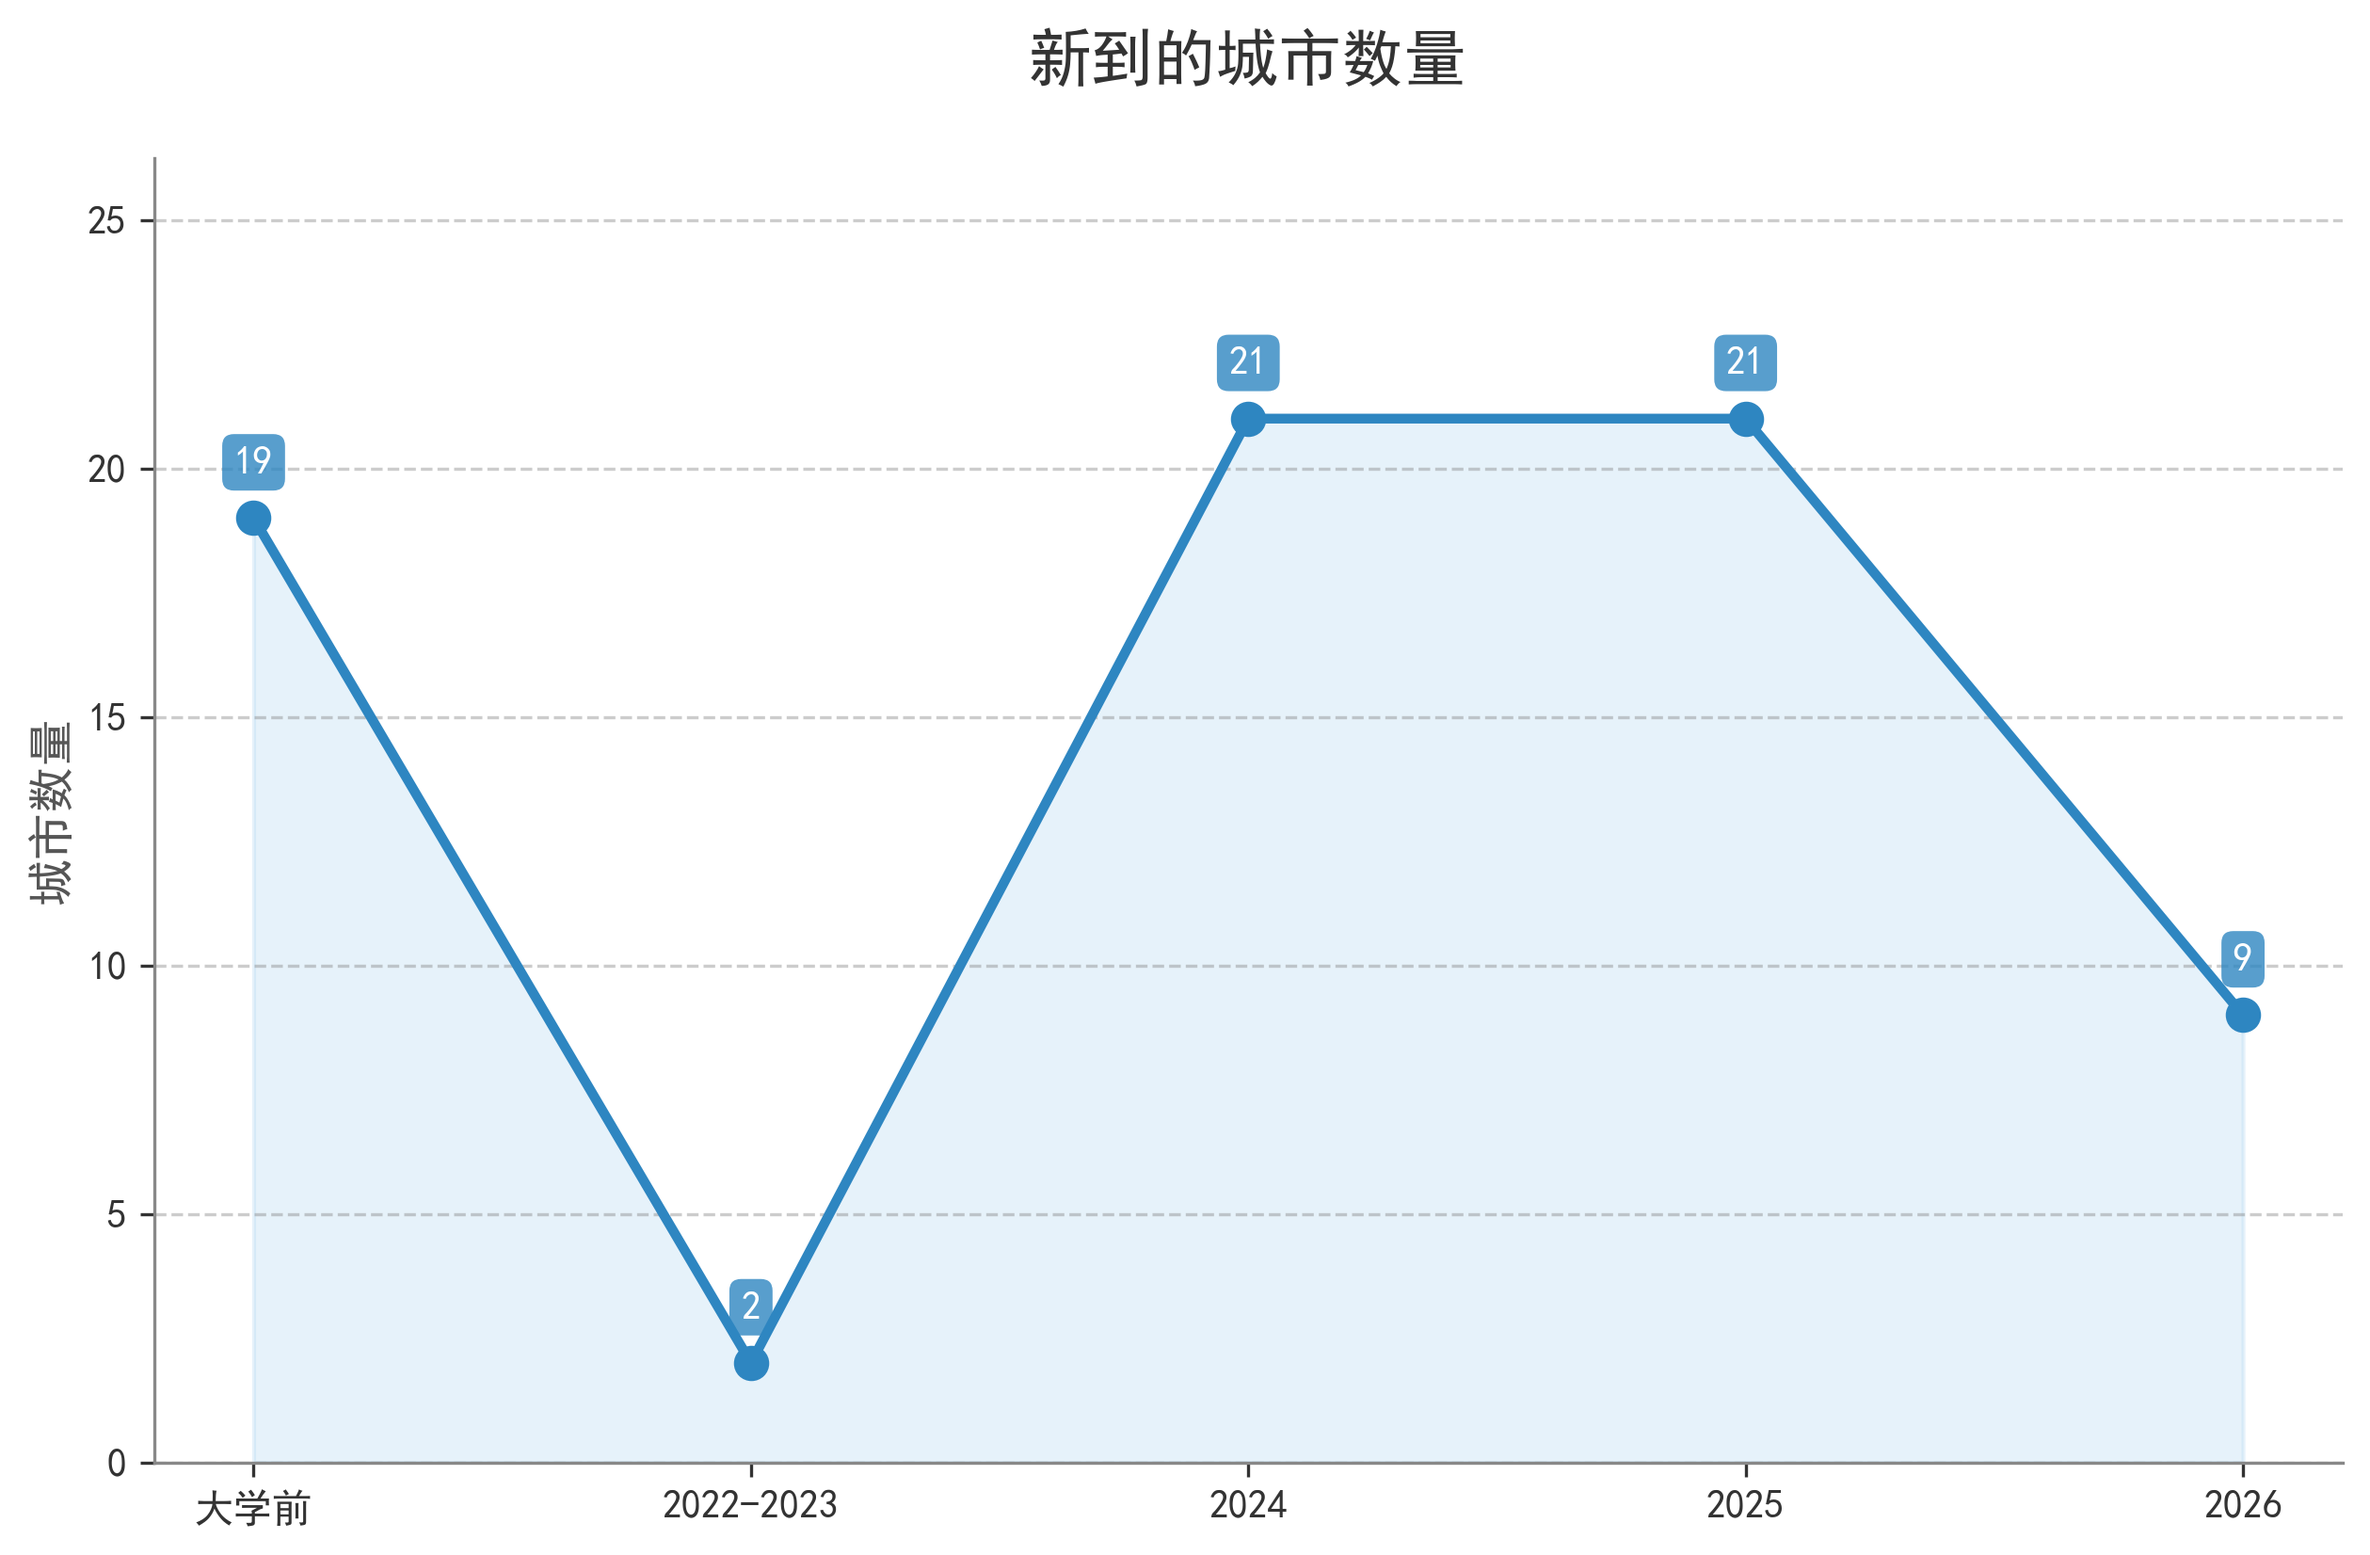
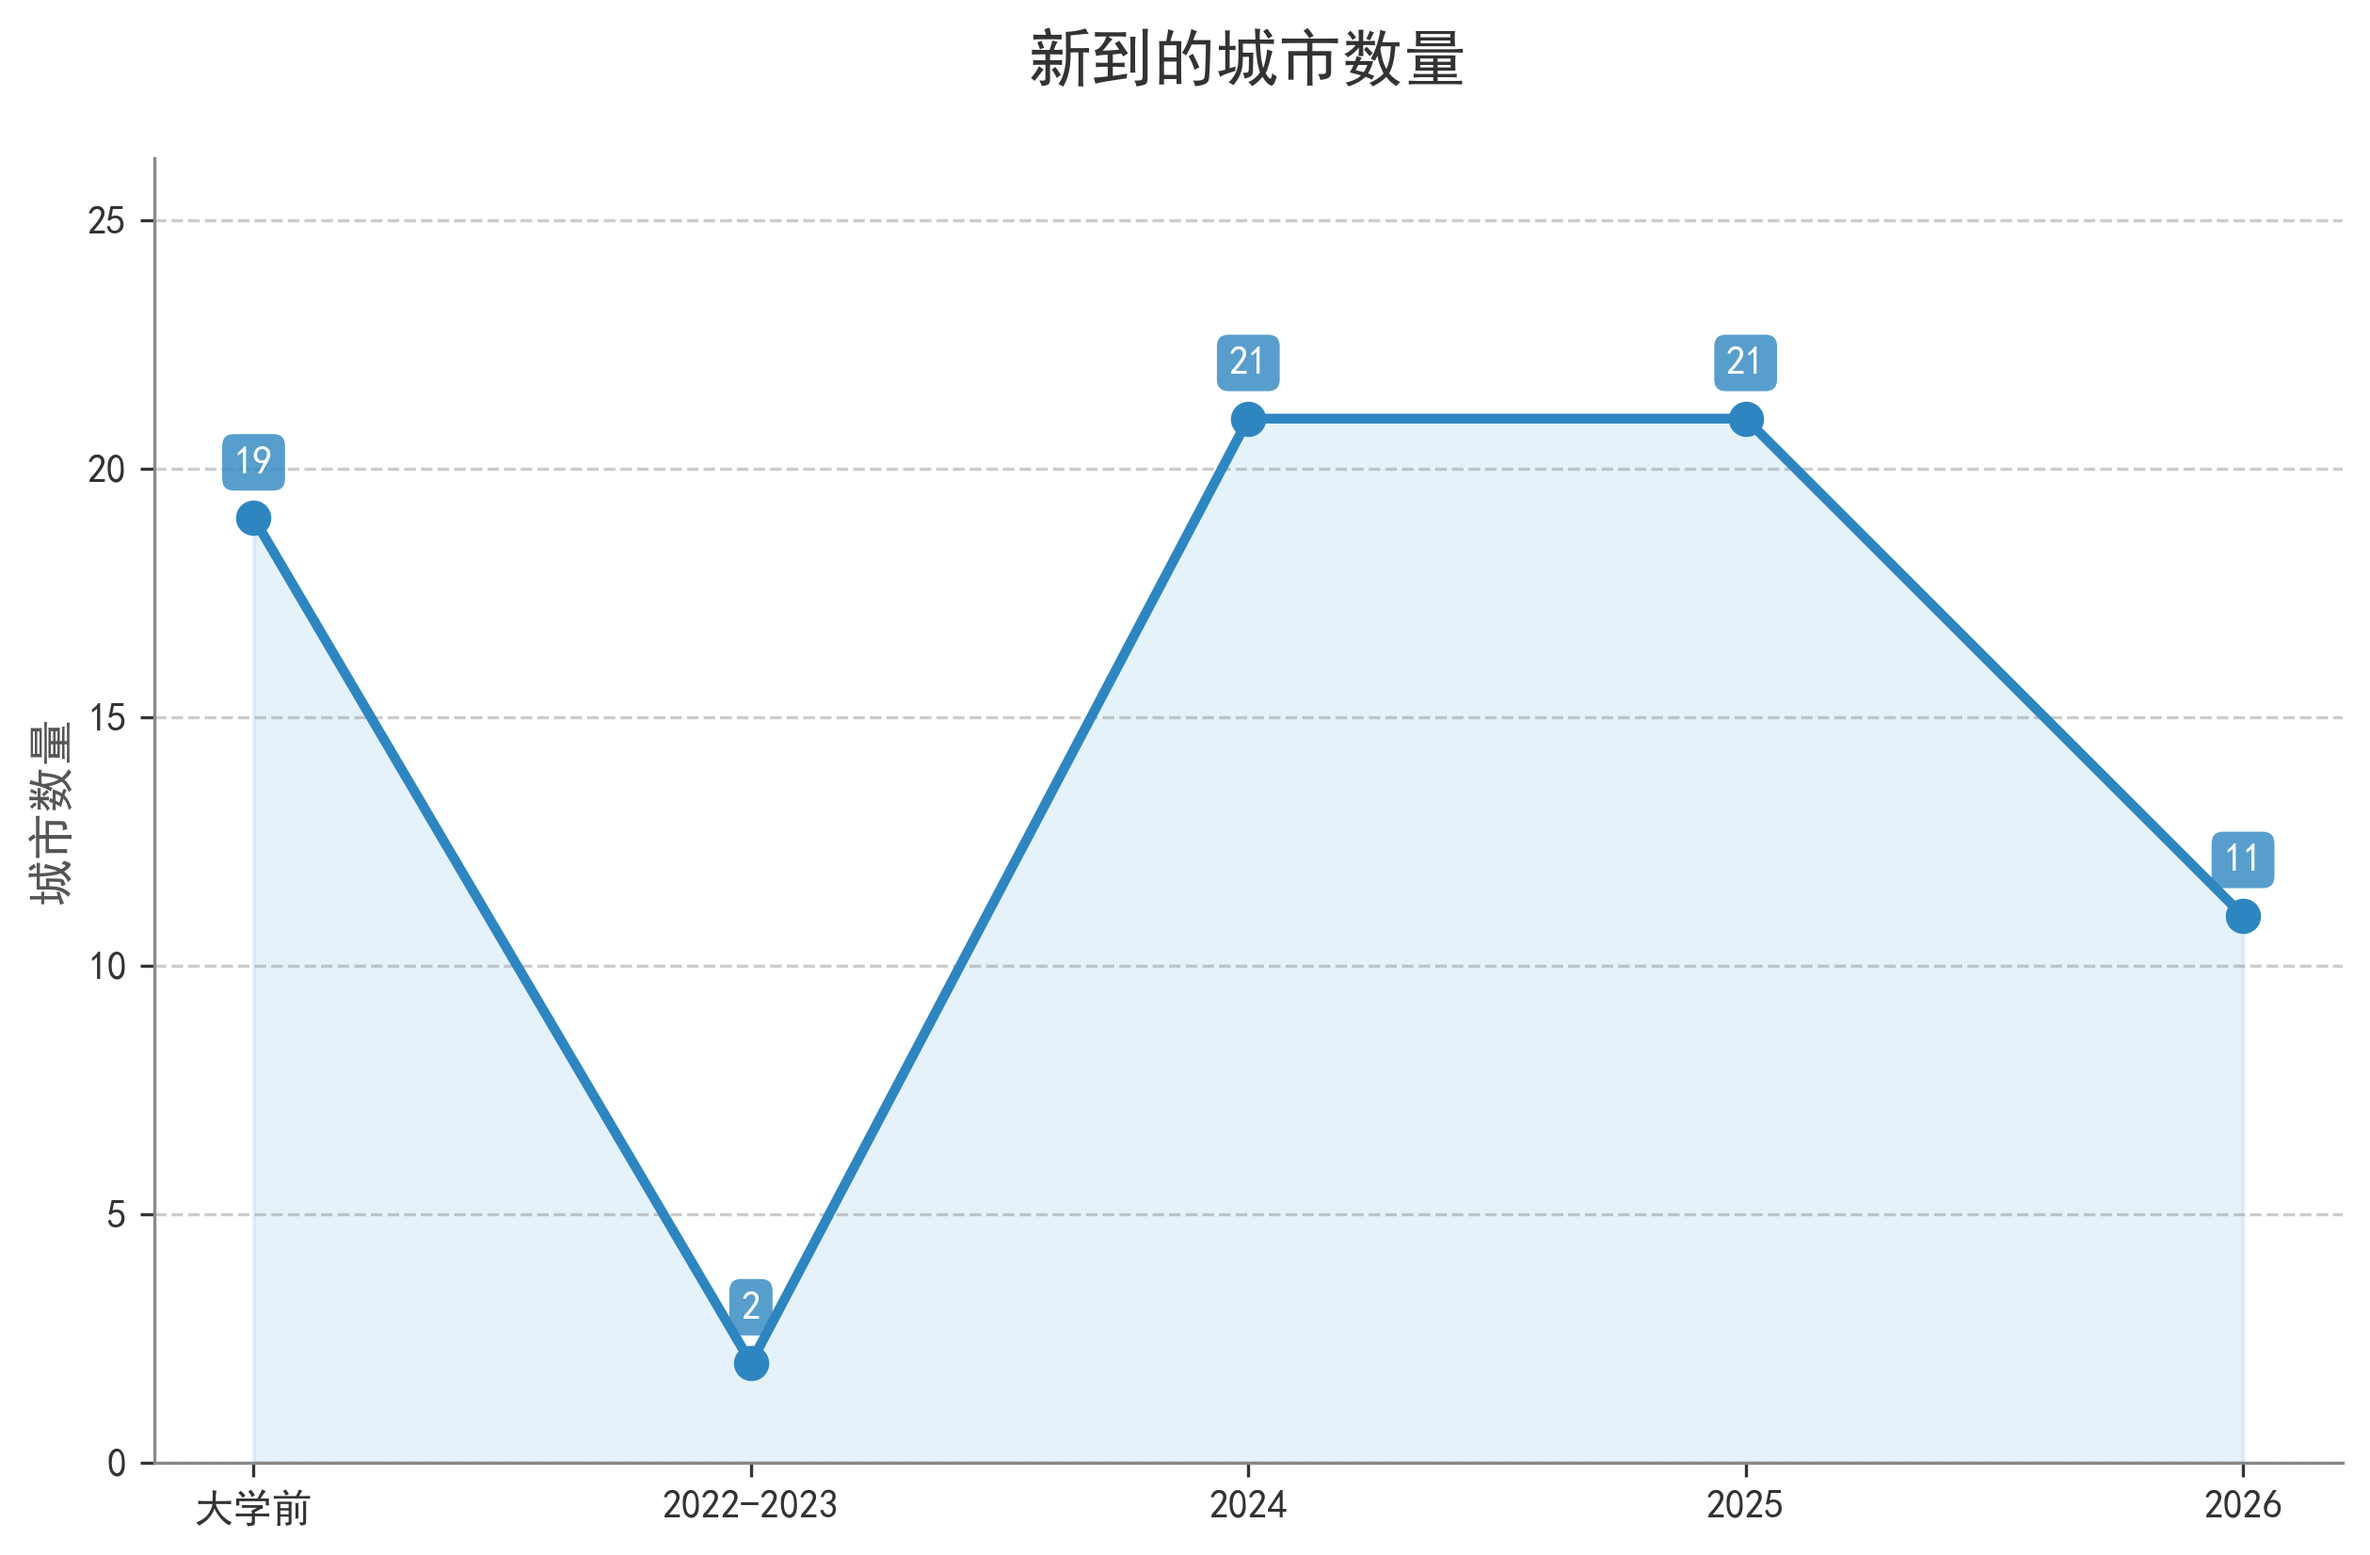
commit

Changed region(s): [[0.7434, 0.2778, 0.9603, 0.6792]]

diff --git a/draw.py b/draw.py
@@ -37,8 +37,8 @@ def add_labels(ax, x, y, color):
 
 # ----------------- 数据部分 -----------------
 years = ["大学前", "2022-2023", "2024", "2025", "2026"]
-new_cities = [19, 2, 21, 21, 9]  
-cumulative_cities = [19, 21, 42, 63, 72] 
+new_cities = [19, 2, 21, 21, 11]  
+cumulative_cities = [19, 21, 42, 63, 74] 
 
 # ----------------- 绘图1: 新到的城市 -----------------
 plt.figure(figsize=(10, 6))

diff --git a/source/_posts/行旅杂记.md b/source/_posts/行旅杂记.md
@@ -129,7 +129,7 @@ date: 2024-11-15 00:00:00
 
 2月26日开始返京，先到深圳停留一天，28日从深圳到合肥，3月1日从合肥到北京[^21]。
 
-至此，共计去过20个省级行政区，72个城市[^20]：
+至此，共计去过21个省级行政区，74个城市[^20]：
 - 省
   - 广东（15/21）：湛江、广州、茂名、东莞、河源、惠州、阳江、江门、佛山、中山、珠海、韶关、揭阳、潮州、深圳
   - 贵州（5/9）：贵阳、黔南、黔东南、安顺、铜仁
@@ -146,16 +146,17 @@ date: 2024-11-15 00:00:00
   - 福建（2/9）：福州、龙岩
   - 河北（2/11）：承德、保定、秦皇岛
   - 辽宁（1/14）：葫芦岛
-  - 甘肃（1/14）：嘉峪关
+  - 甘肃（2/14）：嘉峪关、酒泉
 - 直辖市
   - 北京、上海、天津
 - 自治区
   - 广西（6/14）：北海、桂林、柳州、来宾、贵港、玉林
+  - 内蒙古（1/12）：阿拉善
 
-<figure style="text-align: center;"> <img src="https://s3.bmp.ovh/2026/02/11/ImIgPu8K.jpg" alt="旅行足迹" style="display: block; margin-left: auto; margin-right: auto;width: 80%;"></figure>
+<figure style="text-align: center;"> <img src="https://s3.bmp.ovh/2026/04/17/2HK5Runq.jpg" alt="旅行足迹" style="display: block; margin-left: auto; margin-right: auto;width: 80%;"></figure>
 
 <div style="text-align: center; font-size: 0;">
-  <img src="https://s3.bmp.ovh/2026/02/11/3gl1Jjx4.png" alt="新到的城市数量" style="width: 49%; display: inline-block;"><img src="https://s3.bmp.ovh/2026/02/11/JAj4CoCd.png" alt="累计去过的城市数量" style="width: 49%; display: inline-block;">
+  <img src="https://s3.bmp.ovh/2026/04/17/DfhIyGJG.png" alt="新到的城市数量" style="width: 49%; display: inline-block;"><img src="https://s3.bmp.ovh/2026/04/17/DTuQdKmn.png" alt="累计去过的城市数量" style="width: 49%; display: inline-block;">
 </div>
 
 铁路记录如下[^18]：

diff --git a/source/_posts/武汉岳阳行记.md b/source/_posts/武汉岳阳行记.md
@@ -37,11 +37,12 @@ date: 2024-03-03 00:00:00
 
 ## 1月20日
 
-五点半起床，漫天飞雪，到武汉站赴岳阳东站，“洞庭天下水，岳阳天下楼”，来岳阳自然是为了登岳阳楼（详见[《冬日访岳阳楼》](../1fb2/)），中午吃洞庭鱼煲后回广州，在车上看了《何以为家》。好友在广州北站转车去东莞看球，我坐到广州白云站，在地铁站里走了近两公里才上地铁，气喘吁吁，才发现自己的大衣在二十几度的广东并不合适了。坐了一小时地铁到广州南站，正好赶上回湛江西的动车，在车上看了《卡萨布兰卡》。之所以不直接从岳阳到广州南站，是因为1月18日晚上得知此车停运了。
+五点半起床，漫天飞雪，到武汉站赴岳阳东站，“洞庭天下水，岳阳天下楼”，来岳阳自然是为了登岳阳楼（详见[《冬日访岳阳楼》](../1fb2/)），中午吃洞庭鱼煲后回广州，在车上看了《何以为家》。好友在广州北站转车去东莞看球，我坐到广州白云站，在换乘通道里走了近一公里才上地铁[^2]，气喘吁吁，才发现自己的大衣在二十几度的广东并不合适了。坐了一小时地铁到广州南站，正好赶上回湛江西的动车，在车上看了《卡萨布兰卡》。之所以不直接从岳阳到广州南站，是因为1月18日晚上得知此车停运了。
 
 回家没几天就降温了，似乎比合肥武汉还冷，可能是因为比较潮湿吧。
 
 [^1]: “云海肴”创始人赵晗于2025年9月18日因突发心梗去世，年仅40岁。
+[^2]: 当时最近的地铁站是8号线的石潭站，2025年6月开通了12号线的广州白云站，就方便不少了。
 
 <div style="text-align: right;">
 2024.3.3<br>

diff --git a/renew.md b/renew.md
@@ -706,3 +706,7 @@
 
 4.16
    1. 加嘉峪关
+
+4.17
+   1. 加 酒泉、阿拉善
+   2. 加石潭站
